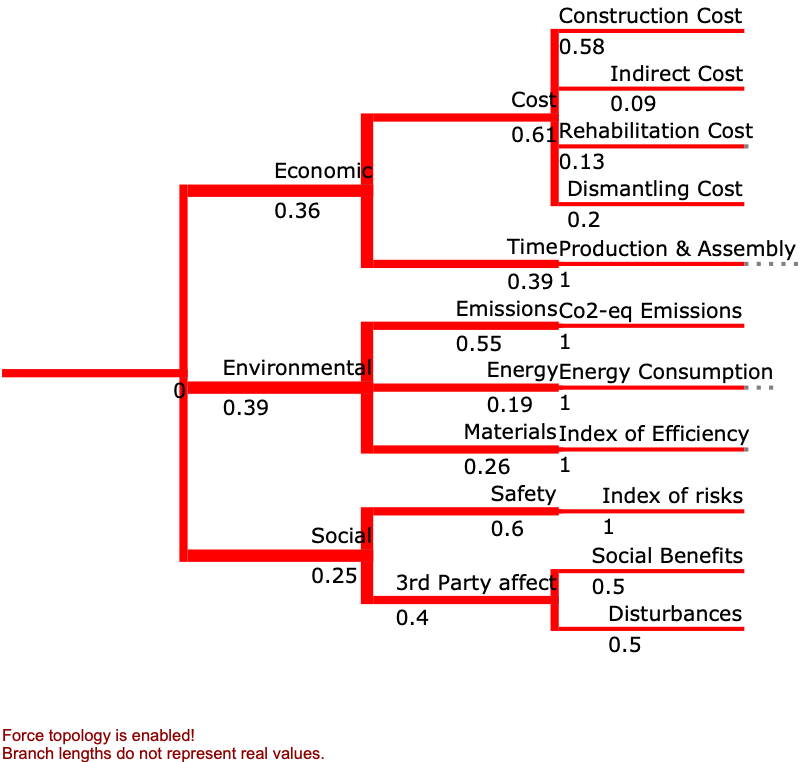
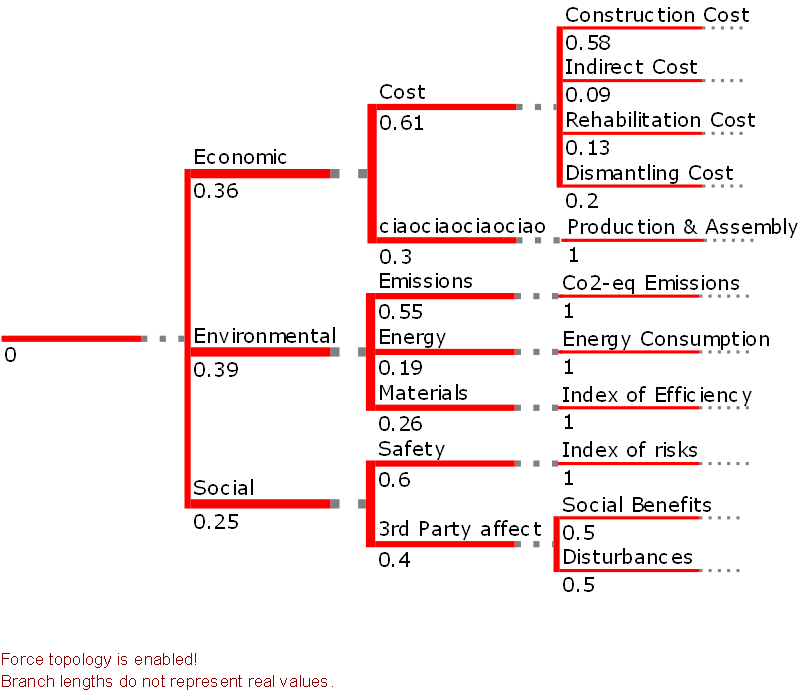
layout edits

Changed region(s): [[0.1562, 0.0, 1.0, 0.8509], [0.0, 0.9421, 0.4062, 1.0], [0.0, 0.4863, 0.0312, 0.5166]]

diff --git a/mives.py b/mives.py
@@ -200,8 +200,14 @@ class Ui_MainWindow(QMainWindow):
         cost = self.t.children[pil]
         new_node = cost.add_child(name = branch_name)
         temp_button = QtWidgets.QPushButton(self.centralwidget)
-        new_node.add_face(TextFace(new_node.name), column=0, position="branch-top")
-        new_node.add_face(TextFace(weigth), column=0, position='branch-bottom')
+        name_text = TextFace(new_node.name)
+        name_text.margin_left = 2
+        name_text.margin_right = 120-8*len(new_node.name)
+        new_node.add_face(name_text, column=0, position="branch-top")
+        weight_text = TextFace(weigth)
+        weight_text.margin_left = 2
+        weight_text.margin_right = 120-8*len(str(weight))
+        new_node.add_face(weight_text, column=0, position='branch-bottom')
         new_node.img_style = self.style1
         self.update_tree_display()
 
@@ -212,8 +218,14 @@ class Ui_MainWindow(QMainWindow):
                 cost = node
         new_node = cost.add_child(name = branch_name)
         temp_button = QtWidgets.QPushButton(self.centralwidget)
-        new_node.add_face(TextFace(new_node.name), column=0, position="branch-top")
-        new_node.add_face(TextFace(weigth), column=0, position='branch-bottom')
+        name_text = TextFace(new_node.name)
+        name_text.margin_left = 2
+        name_text.margin_right = 120-8*len(new_node.name)
+        new_node.add_face(name_text, column=0, position="branch-top")
+        weight_text = TextFace(weigth)
+        weight_text.margin_left = 2
+        weight_text.margin_right = 120-8*len(str(weight))
+        new_node.add_face(weight_text, column=0, position='branch-bottom')
         new_node.img_style = self.style2
         self.update_tree_display()
 
@@ -247,7 +259,6 @@ class Ui_MainWindow(QMainWindow):
             if ok:
                 for node in self.t.traverse("levelorder"):
                     if node.name == item:
-                        # edit the node
                         Dialog = QtWidgets.QDialog()
                         ui = Ui_Dialog()
                         ui.setupUi(Dialog)
@@ -418,7 +429,11 @@ class Ui_MainWindow(QMainWindow):
         for node in t.traverse("postorder"):
             # Add text on top of tree nodes
             name_face = TextFace(node.name)
+            name_face.margin_left = 2
+            name_face.margin_right = 120-8*len(node.name)
             weight_face = TextFace(str(self.weights[node.name]))
+            weight_face.margin_left = 2
+            weight_face.margin_right = 120-8*len(str(self.weights[node.name]))
             self.name_faces[node.name] = name_face
             self.weight_faces[node.name] = weight_face
             node.add_face(name_face, column=0, position="branch-top")
